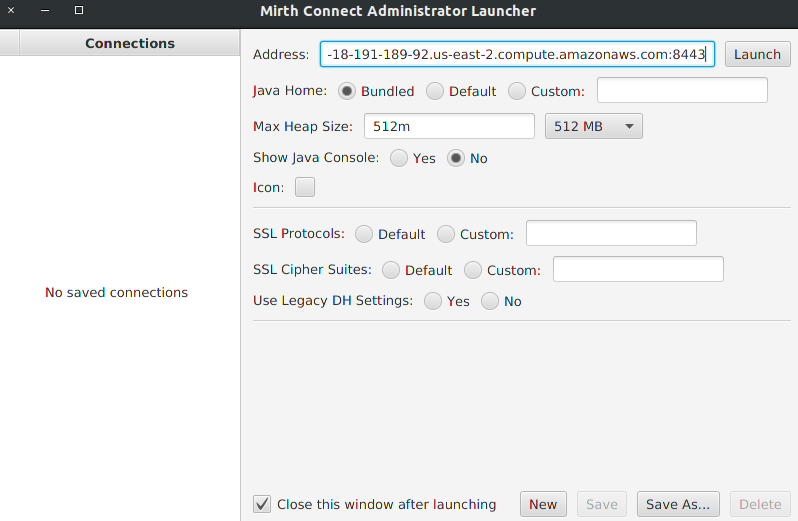
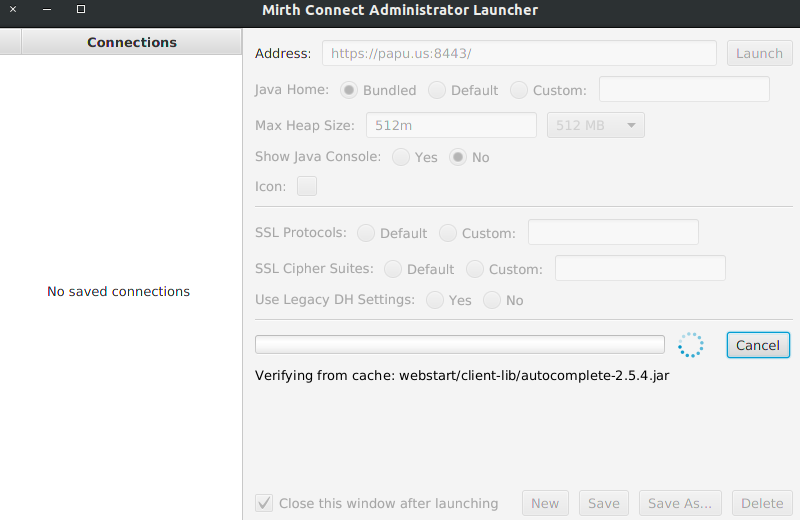
minor update

diff --git a/guide/guide.md b/guide/guide.md
@@ -163,7 +163,7 @@ ssh -i "/home/joebrew/.ssh/openhdskey.pem" ubuntu@ec2-3-130-255-155.us-east-2.co
 sudo hostnamectl set-hostname data-management.local
 ```
 - Then, make the hostname change persistent across sessions by running: `sudo nano /etc/cloud/cloud.cfg`
-- Add the below line to the bottom of the file:
+- Change the `preserve_hostname` field as below:
 ```
 preserve_hostname: true
 ```
@@ -343,7 +343,7 @@ scp -i "/home/joebrew/.ssh/openhdskey.pem" mirthconnect-3.8.0.b2464-unix.sh ubun
 - From the remote machine, run `chmod a+x mirthconnect-3.8.0.b2464-unix.sh`
 - Run the installer: `sudo ./mirthconnect-3.8.0.b2464-unix.sh`
 - You'll need to press `Enter` and `1` a few times to confirm the license agreement
-- When it asks "Where should Mirth Connect be installed?", type `/usr/'local/mirthconnect'` (default)
+- When it asks "Where should Mirth Connect be installed?", type `/usr/local/mirthconnect` (default)
 - When it asks "Which components should be installed?", press `Enter`
 - When it asks "Create symlinks?", press `Enter` (ie, "Yes")
 - When it asks "Select the folder where you would like Mirth Connect to create symlinks", type `Enter` to confirm the local `/usr/local/bin`
@@ -369,7 +369,7 @@ GRANT ALL ON mirthdb.* TO data@'%' IDENTIFIED BY 'data' WITH GRANT OPTION;
 - Replace the `database.url` line with `database.url = jdbc:mysql://localhost:3306/mirthdb`
 - Set values for `database.username` and `database.password` to `data` and `data`
 - Restart the mirth service: `sudo service mcservice restart`
-- Go to https://papu.us:8443 (note the https). Log in with admin/admin credentials.
+- Go to https://papu.us:8443 (note the https). You may have to approve a browser warning. Log in with admin/admin credentials. Then log out.
 - After log-out, click "Download the Administrator Launcher" in the bottom left
 - A file will be downloaded to your local machine
 - Make that file executable: `chmod +x mirth-administrator-launcher-1.1.0-unix.sh`
@@ -395,7 +395,7 @@ GRANT ALL ON mirthdb.* TO data@'%' IDENTIFIED BY 'data' WITH GRANT OPTION;
 - Run `wget https://github.com/SwissTPH/Mirth-Channels/releases/download/1%2C6/Mirth-Channels.zip` to your local machine
 - Run `unzip Mirth-Channels.zip`
 - On your local machine, open the "Mirth Connect Administrator Launcher" program
-- Log in with the IP of your instance and the `data`/`data` username/password
+- Log in with the https://papu.us:8443 Server and the `data`/`data` username/password
 - Once Mirth Connect Administrator is up and running, click on the "Channels" menu on the left
 - Click "Import channel" to the left
 - Import the following channels. If asked about version conversion, select "Yes". After each one click "Save Changes" on the left.
@@ -487,16 +487,12 @@ chmod 777 ODK-Aggregate-v2.0.3-Linux-x64.run
 
 ### Installing ODK Aggregate
 
-- Not running the below section, since it apparently fucks up OpenHDS:
-  - There is now a folder called "ODKAggregate" in the `~/ODK` directory. Go there: ` cd ~/ODK/ODK\ Aggregate/`
-  - Within that folder there is a file named `create_db_and_user.sql`. Examine it
-  ```
-  cat create_db_and_user.sql
-  ```
-  - Copy the lines from the .sql file except for the first one (since you've already created a database named `odk_prod`)
-
+- Not running the below section (causes OpenHDS to crash).
+  - ~~There is now a folder called "ODKAggregate" in the `~/ODK` directory (note all caps). Go there: ` cd ~/ODK/ODK\ Aggregate/`
+  - ~~Within that folder there is a file named `create_db_and_user.sql`. Examine it with `cat create_db_and_user.sql`.
+  - Copy the lines from the .sql file except for the first one (since you've already created a database named `odk_prod`) and run it as follows
   - Get into the mysql cli `sudo mysql -uroot -pdata`
-  - Paste the lines and run them.
+  - Paste the lines and run them.~~
 - Now we need to run Tomcat manager. Go to http://papu.us:8080/manager/html. Log in with credentials `data` and `data`
 - Note in the "Applications" table that ODKAggregate is not yet running
 - Copy the file created in configuration (`~/ODK/ODK\ Aggregate/ODKAggregate.war`) from your remote to local machine, by running the below from the local machine
@@ -618,7 +614,7 @@ GRANT SELECT, UPDATE ON BASELINE_VIEW TO 'datamanager'@'%';
 - Open OpenHDS Mobile
 - Tap "Preferences" in the upper-right
 - Click on the url under the heading "OpenHDS Server Location"
-- Enter the URL of the OpenHDS server: http://ec2-3-130-255-155.us-east-2.compute.amazonaws.com:8080/openhds
+- Enter the URL of the OpenHDS server: http://papu.us:8080/openhds
 
 ## Set up ODKCollect
 
